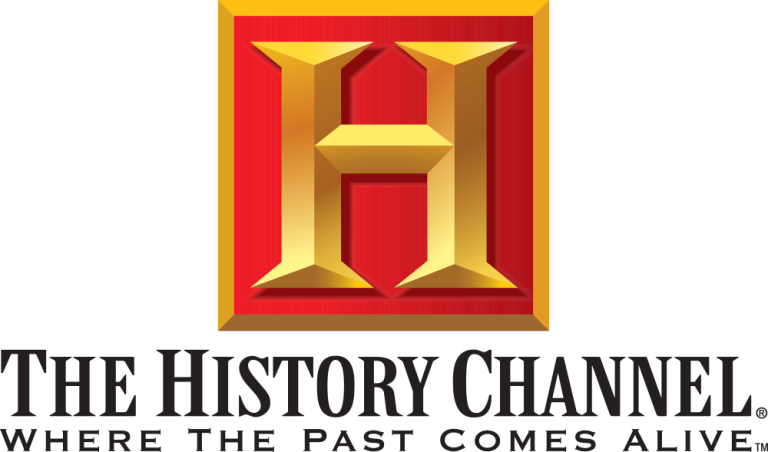
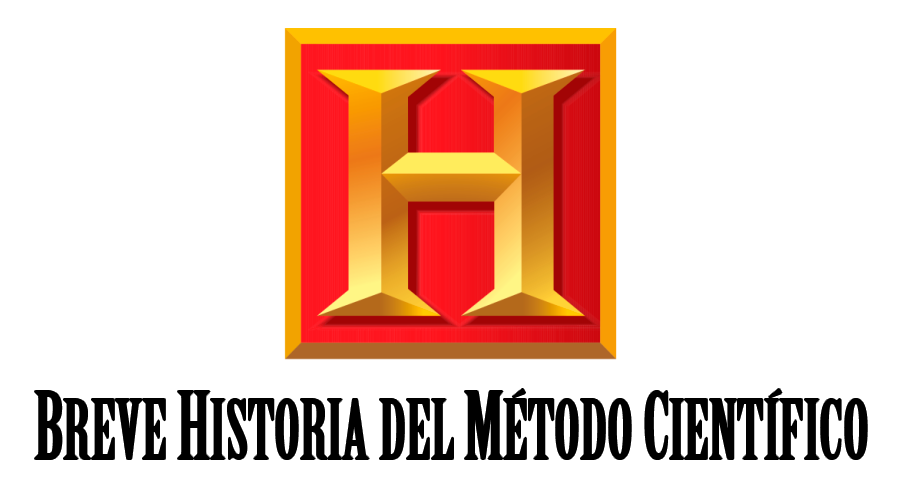
Update 101215-1504

diff --git a/index.html b/index.html
@@ -50,7 +50,7 @@
 				</section>
             <section>
                         <section>
-                            <img src="slp.png" alt="Sleeper" width="100%" height="100%">
+                            <img src="slp.png" alt="Sleeper" width="100%" height="100%" style="border: 0">
                         </section>
                         <section>
                         <p>—That’s science. I don’t believe in science. Science is an intellectual dead end. You know, it’s a lot of little guys in tweed suits and cutting up frogs on foundation grants, and… </p>
@@ -96,7 +96,7 @@ But at least after death you’re not nauseous. </p>
                     </section>                          
                     </ul>
                 <section>
-                    <img src="img/logic.png" width="80%" height="80%" border=”0″>        
+                    <img src="img/logic.png" width="80%" height="80%" style="border: 0">        
                 </section>
            </section>
     <section>
@@ -104,15 +104,20 @@ But at least after death you’re not nauseous. </p>
             <h2 class="fragment">Método científico</h2>
                 </section>
                 
-            <section id="Historia">
                 <section>
-                <h2>Breve historia del método</h2>
-                <img src="img/history.png" border=”0″>
+                
+        <div style="display: flex; justify-content: center;">
+                    <img src="img/history.png" style="border: 0">
+                    </div><br>
                 </section>
+                 <section>
                 <section>
                     <h2>Aristóteles</h2>
-                    <img src="img/aristotle.png">
+                    <div style="display: flex; justify-content: center;">
+                    <img src="img/aristotle.png" style="border: 0">
+                    </div>
                          </section>
+                
                 <section>
                     <h3>Aristóteles</h3>
                     <ul>
@@ -123,14 +128,135 @@ But at least after death you’re not nauseous. </p>
                 </section>
                 <section id="Inductivo vs deductivo">
                 <p>Hay dos direcciones para proceder en nuestros métodos de investigación:</p> <br>
-<li class="fragment">Uno que se aleja de lo que es observado, hacia lo más fundamental, general y abarcador.</li><br>
-                    <li class="fragment">El otro lleva de lo más fundamental y general a otras instancias específicas posibles de dichos principios. </li>
-                </section>    
-            </section>    
+<li class="fragment">Uno que se aleja de lo que es observado, hacia lo más fundamental, general y abarcador.</li>
+                    <li class="fragment">El otro lleva de lo más fundamental y general a otras instancias específicas posibles de dichos principios. </li><br>
+                    <p class="fragment" align="center" border="1">Inductivo vs. Deductivo</p>
+                </section>
+                                </section>    
+    
+                <section>
+                    <section>
+                    <h2>Newton</h2>       
+                    <div style="display: flex; justify-content: center;">
+                        <img src="img/newton.jpg" style="border: 0">
+                        </div>
+                    </section>
+                    <section>
+                        <h3>Newton</h3><br>
+                <blockquote class="fragment" align="center"><i>hypotheses non fingo</i></p>
+                <p class="fragment" align="center"><i>(no compongo una hipótesis)</i></p></blockquote>
+                <br><p class="fragment">El científico no debería inventar sistemas, sino inferir explicaciones a partir de observaciones</
+                </section>
+                    </section>
+                
+                <section>
+                <h2>Siglo XX</h2><br>
+                    <ol>
+                    <li class="fragment">Positivismo lógico</li><br>
+                    <li class="fragment">H-D como lógica de confirmación</li><br>
+                    <li class="fragment">Popper y el falsacionismo</li>    
+                    </ol>
+                </section>
+            <section>    
+                 <section id="Positivismo">
+                     <h2>1. Positivismo</h2>
+                     <h3 class="fragment">(Concepción heredada)</h3><br>
+                <p class="fragment">Avances en lógica y probabilidad ilusionaron con elaboradas resconstrucciones de teorias y métodos empíricos.</p><br>
+<p class="fragment"><i>The Logical Structure of the World</i>, Rudolf Carnap (1928)</p>
+                    </section>
+                    <section>
+                <ul>
+                    <li>Axiomatización de teorías</li><br>
+                    <li class="fragment">Contexto de descubrimiento y justificación</li><br>
+                    <li class="fragment">Términos teóricos y observacionales</li>
+                    </ul>
+                    </section>
+                <section>
+                <h2>Dificultades</h2>
+                    <ul>
+                    <li class="fragment">Observación</li><br>
+                    <li class="fragment">Axiomatización</li><br>
+                    <li class="fragment">Inductivismo</li><br>
+                    </ul>
+                </section>
+            </section>  
+                <section>
+                    <section>
+                    <h2>2. H-D como lógica de confirmación</h2><br>
+                        <p class="fragment">Una hipótesis es confirmada por sus consecuencias verdaderas.</p>
+                    </section>
+                    <section>
+                    <ul>
+                        <li class="fragment">Si la hipótesis está en conflicto con observaciones, puede ser rechazada de inmediato.</li><br>
+                        <li class="fragment">Otras necesitan ser testeadas experimentalmente:</li>
+                            <ul>
+                        <li class="fragment">Si la predicción <b>no</b> se da, entonces H es rechazada.</li>
+                        <li class="fragment">Si la predicción <b>si</b> se da, no quiere decir que H se sostenga.</li>
+                                </ul>
+                        </ul>
+                    </section>
+                </section>
+                <section>
+                <section>
+                    <h2>3. Popper y el falsacionismo</h2><br>
+                    <p class="fragment">Es similar al H-D; los científicos deducen consecuencias observacionales de sus hipótesis y las someten a prueba.</p>
+                    </section>
+                    <section>
+                        <ul>
+                    <li class="fragment">Para Popper no importa la cantidad de evidencia confirmatoria a favor de H, nunca podemos estar seguros de que sea verdadera.</li><br>
+                        <li class="fragment">Lo importante no era probar la veracidad, sino eliminar las posibles instancias en la que la hipótesis fuera falsa.</li>
+                            </ul>
+                    </section>
+                </section>
+                    
+            <section>
+                    <section id="chiste">
+                        <h2>El fin del método</h2>
+                <img class="fragment" src="img/metodo.gif" height="150%" width="150%">
+                </section>
+                <section>
+                <h2>El fin del método</h2><br>
+                    <ul>
+                <li class="fragment">Todas las dificultades (y otras) fueron haciendo evidente que era necesario otro enfoque para mirar la actividad científica.</li><br>
+                    <li class="fragment">Una mirada más empírica, que vea qué hacen los científios en sus campos.</li><br>
+                        </ul>
+                    <p class="fragment" align="center">Prácticas científicas</p>
+                                    </section>
+            <section>
+                <div style="display: flex; justify-content: center;">
+                <img src="img/diferencia.png" height="40%" width="40%"  align="middle" style="border: 0">
+                </div>
+                </section>
+                    <section>
+                        <h2>Otras miradas sobre la actividad científica</h2><br>
+                    <ol>
+                        <li class="fragment">Kuhn</li><br>
+                        <li class="fragment">Feyerabend</li><br>
+                        <li class="fragment">Sociología de la ciencia</li>
+                        </ol>
+                    </section>
+                </section>
+                
+                <section id="kuhn">
+                    <section>
+                    <h2>Thomas Kuhn</h2>
+                        <img src="img/kuhn.jpg">
+                    </section>
+                    <section>
+                        <h2>La estructura de las revoluciones científicas</h2><br>
+                    <img src="img/structure.jpg" align="left">
+                        <p class="fragment" align="center">Giro historicista</p>
+                    </section>
+                    <section>
+                    <ul>
+                        <li></li>
+                        </ul>
+                    </section>
+                </section>
 
 				<section id="feyerabend">
                     <section>    
-                    <h3>Paul Feyerabend</h3>
+                    <h2>Paul Feyerabend</h2>
 						<span class="fragment"><div align="center"><img src="pf.jpg" alt="Feyerabend" width="60%" height="60%"></div></span>
 
                     </section>
